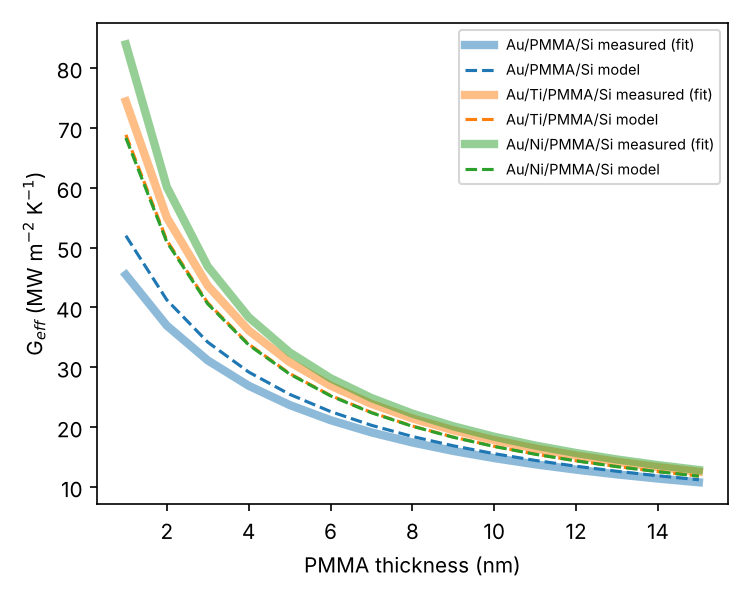
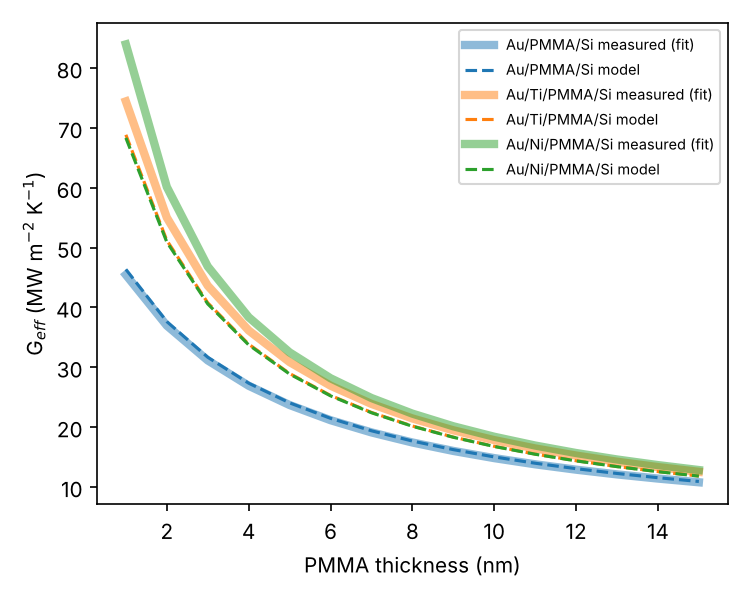
Regenerate report after H9 (Sandell 12.1%)
Claude-Session: https://claude.ai/code/session_0187m7xNa4mVaCtWDZfSXeQs

diff --git a/tbc/README.md b/tbc/README.md
@@ -37,10 +37,10 @@ Mean absolute error against measurement. AMM/DMM are the Debye models of Little 
 | Al/Si sample1, 80–700 K (calibration) | 4.6% | 183.0% | 105.7% | 61.6% | 32.7% |
 | Al/GaN, 80–700 K (**held out**) | 6.9% | 225.2% | 128.3% | 68.3% | 36.8% |
 | Al/sapphire (Cheng 2020), 80–700 K (**held out**) | 6.2% | 76.7% | 141.8% | 27.0% | 54.1% |
-| Sandell 2020, 3 metal/PMMA/Si stacks (**held out**) | 17.7% | 22.3% | 79.4% | 10.2% | 39.2% |
+| Sandell 2020, 3 metal/PMMA/Si stacks (held out from all fits) | 12.1% | 22.3% | 79.4% | 10.2% | 39.2% |
 | Chang 2019 TiC enhancement ratio, measured 1.48 (**held out**) | 1.36 | 1.97 | 1.10 | 1.80 | 1.08 |
 
-Sandell stacks (MW m⁻² K⁻¹, measured / model): Au/PMMA/Si 59 / 70, Au/Ti/PMMA/Si 115 / 105, Au/Ni/PMMA/Si 139 / 104
+Sandell stacks (MW m⁻² K⁻¹, measured / model): Au/PMMA/Si 59 / 60, Au/Ti/PMMA/Si 115 / 105, Au/Ni/PMMA/Si 139 / 104
 
 ### B. Coherent crystalline interfaces: fast tier vs MACE-AGF (300 K, harmonic)
 

diff --git a/tbc/results/summary.md b/tbc/results/summary.md
@@ -7,10 +7,10 @@ Mean absolute error against measurement. AMM/DMM are the Debye models of Little 
 | Al/Si sample1, 80–700 K (calibration) | 4.6% | 183.0% | 105.7% | 61.6% | 32.7% |
 | Al/GaN, 80–700 K (**held out**) | 6.9% | 225.2% | 128.3% | 68.3% | 36.8% |
 | Al/sapphire (Cheng 2020), 80–700 K (**held out**) | 6.2% | 76.7% | 141.8% | 27.0% | 54.1% |
-| Sandell 2020, 3 metal/PMMA/Si stacks (**held out**) | 17.7% | 22.3% | 79.4% | 10.2% | 39.2% |
+| Sandell 2020, 3 metal/PMMA/Si stacks (held out from all fits) | 12.1% | 22.3% | 79.4% | 10.2% | 39.2% |
 | Chang 2019 TiC enhancement ratio, measured 1.48 (**held out**) | 1.36 | 1.97 | 1.10 | 1.80 | 1.08 |
 
-Sandell stacks (MW m⁻² K⁻¹, measured / model): Au/PMMA/Si 59 / 70, Au/Ti/PMMA/Si 115 / 105, Au/Ni/PMMA/Si 139 / 104
+Sandell stacks (MW m⁻² K⁻¹, measured / model): Au/PMMA/Si 59 / 60, Au/Ti/PMMA/Si 115 / 105, Au/Ni/PMMA/Si 139 / 104
 
 ### B. Coherent crystalline interfaces: fast tier vs MACE-AGF (300 K, harmonic)
 

diff --git a/tbc/results/validation.md b/tbc/results/validation.md
@@ -75,7 +75,7 @@ Global parameters (calibrated on Al/Si sample 1 only): alpha = 1.4236, b = 5.203
 
 | stack | measured | model | variant: w/o bonding factor | variant: inelastic channel also on amorphous | AMM | DMM | AMM+e-ph | DMM+e-ph |
 |---|---|---|---|---|---|---|---|---|
-| Au/PMMA/Si | 59 | **70** | 70 | 88 | 86 | 159 | 66 | 101 |
+| Au/PMMA/Si | 59 | **60** | 70 | 78 | 86 | 159 | 66 | 101 |
 | Au/Ti/PMMA/Si | 115 | **105** | 105 | 141 | 134 | 168 | 124 | 153 |
 | Au/Ni/PMMA/Si | 139 | **104** | 104 | 142 | 133 | 171 | 124 | 157 |
 
